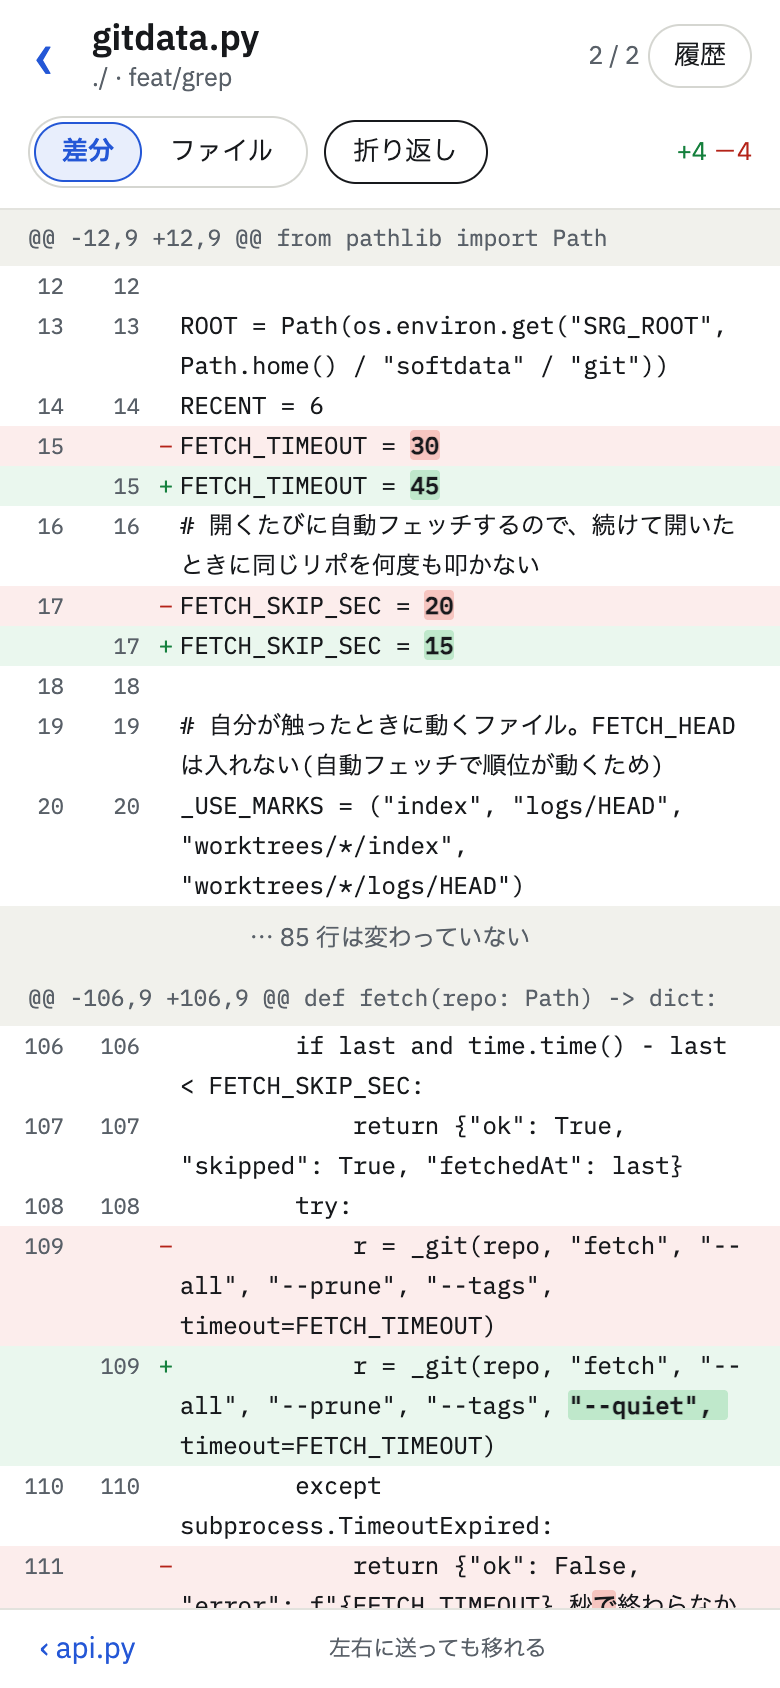
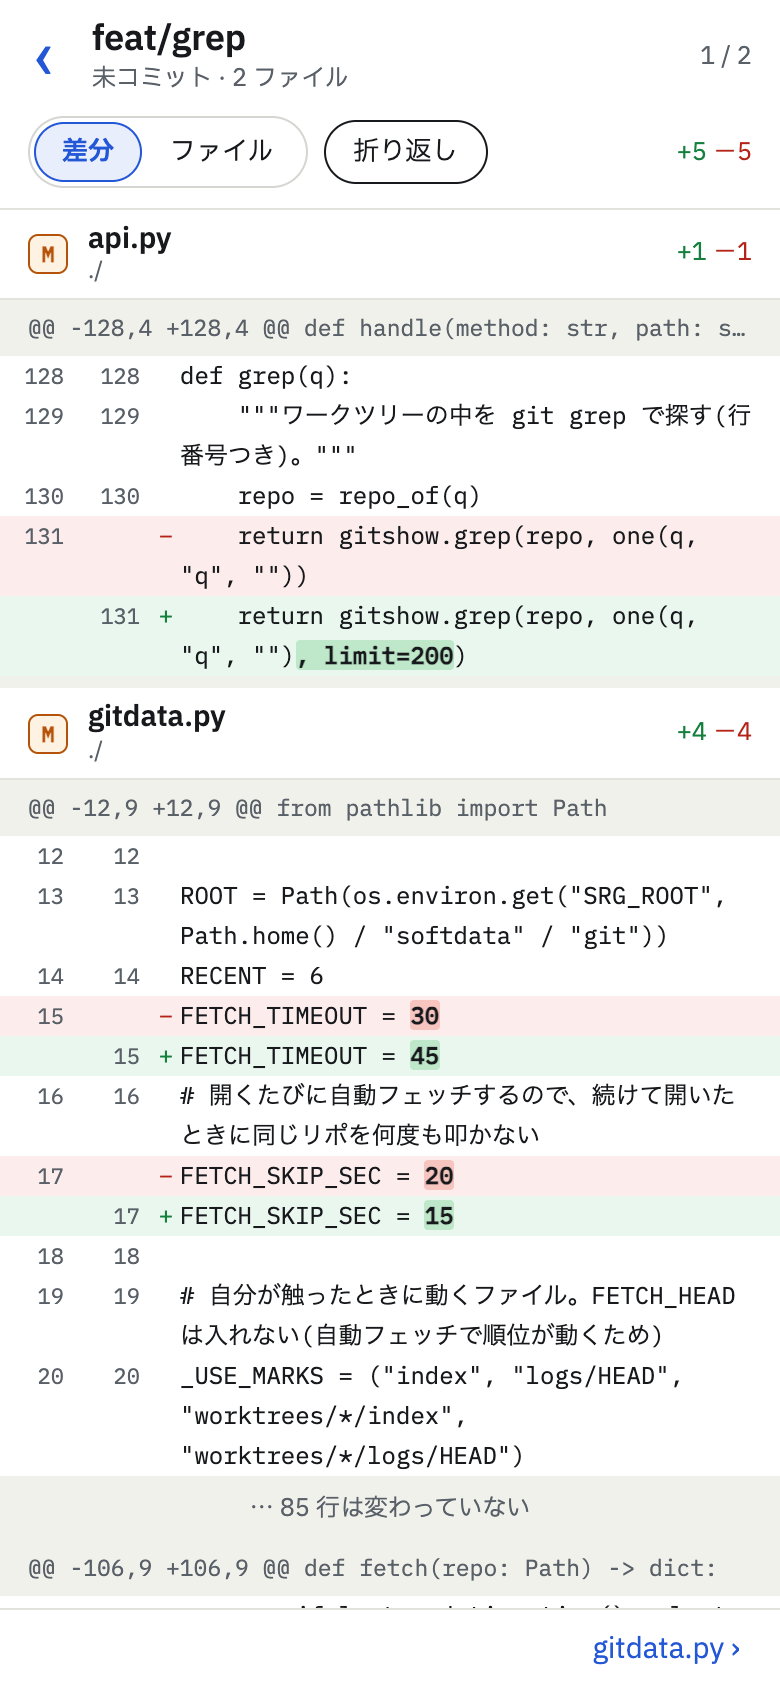
docs: README に差分の流し読みを足し、差分と Markdown の画像を撮り直す

diff --git a/README.md b/README.md
@@ -13,8 +13,8 @@
 
 - **📱 スマホのための縦スクロール** ― 開いたら裏で `git fetch` して描き直す。最近触ったリポ 6 個をチップで切り替え
 - **🌿 GitHub にまだ無いものが一目で** ― ワークツリーごとの未コミットの変更、スタッシュ、未プッシュのコミット、ブランチの ↑先行 ↓遅れ
-- **🔍 差分をその場で読める** ― 未プッシュのコミットも、未コミットの変更も、スタッシュも。変わった語だけ濃く塗る。プッシュ済みなら GitHub へも 1 タップ
-- **📝 Markdown は GitHub の Rich Diff と同じ見え方** ― 整形したものどうしを比べ、足した塊は緑、消した塊は赤、直した段落は語の単位で。プレーンテキストにも切り替えられる
+- **🔍 差分をその場で流し読み** ― 未プッシュのコミットも、未コミットの変更も、スタッシュも。変わったファイルを縦につないで出し、一覧で選んだファイルの所へ飛ぶ。変わった語だけ濃く塗る。プッシュ済みなら GitHub へも 1 タップ
+- **📝 Markdown は GitHub の Rich Diff と同じ見え方** ― 整形したものどうしを比べ、足した塊は緑、消した塊は赤、直した段落は語の単位で。変わっていない段落は畳む。プレーンテキストにも切り替えられる
 - **📋 パスを貼るだけで開く** ― AI の返事にある `web/app.js:120` やフルパスを貼れば、そのファイルのその行へ。別のリポやワークツリーでも
 - **🗂 ファイルブラウザと履歴** ― 差分の無いフォルダも木でたどれる(gitignore されたものも薄く)。ファイルを変えたコミットの一覧へも
 - **🪶 依存ゼロ** ― Python の標準ライブラリと素の HTML/JS だけ。ビルドも `npm install` も venv も要らない
